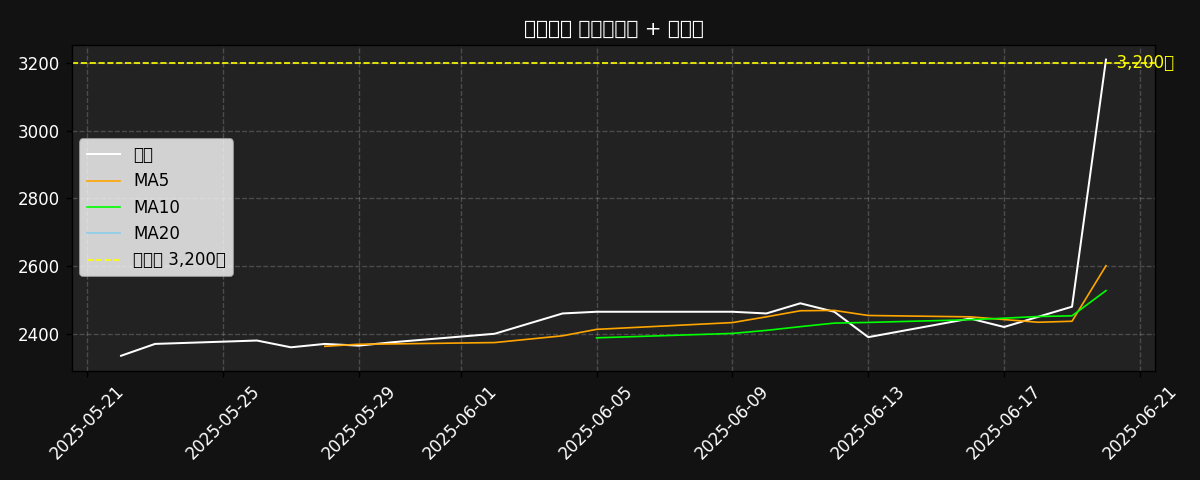
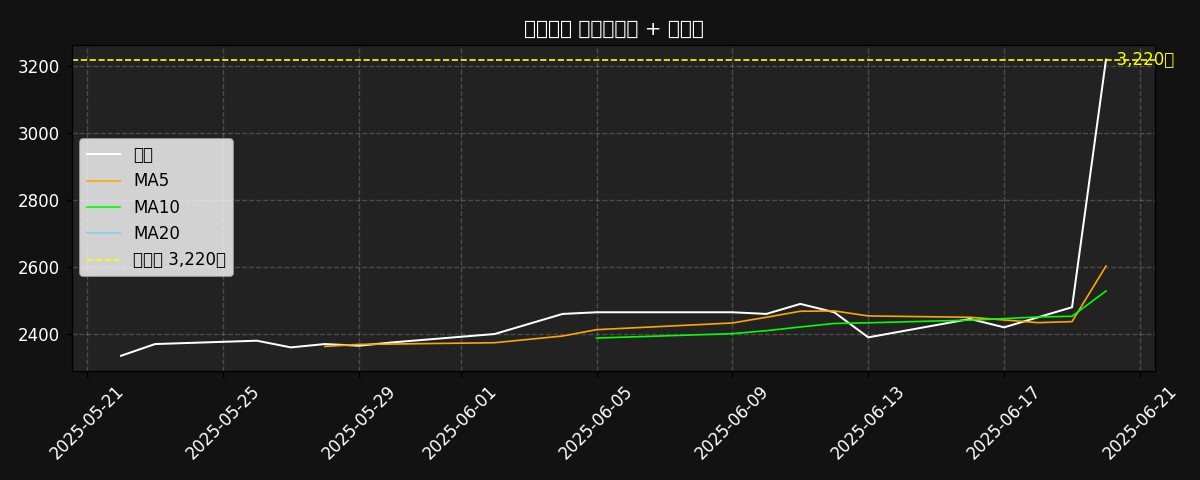
✅ 당일 정배열 포스팅 완료

diff --git a/_posts/2025-06-20-subfile.md b/_posts/2025-06-20-subfile.md
@@ -9,7 +9,7 @@ tags:
   - 정배열
   - Moving Average Alignment
   - 국내 종목 골든크로스
-last_modified_at: 2025-06-20T14:55:55+09:00
+last_modified_at: 2025-06-20T15:37:19+09:00
 ---
 
 안녕하세요. 국내 급등주 종목에 대한 정배열 종목 추출 리스트 입니다.
@@ -20,153 +20,163 @@ last_modified_at: 2025-06-20T14:55:55+09:00
 
 # 📈 급등 + 이동평균선 계단 상승 종목 카드
 <style>
-          body {
-            background-color: #121212;
-            color: #f0f0f0;
-            font-family: 'Segoe UI', sans-serif;
-            padding: 2em;
-          }
-          .card {
-            background: #2a2a2a;
-            border-radius: 12px;
-            box-shadow: 0 4px 12px rgba(0,0,0,0.4);
-            padding: 1.5em;
-            margin-bottom: 2em;
-            max-width: 700px;
-            color: #f0f0f0;
-          }
-          .card h2 {
-            margin-top: 0;
-            color: #ffb400;
-          }
-          .card ul {
-            list-style-type: none;
-            padding: 0;
-          }
-          .card li {
-            margin-bottom: 0.6em;
-            line-height: 1.6em;
-            color: #e2e2e2;
-          }
-          .card li strong {
-            color: #ffffff;
-          }
-          .card img {
-            max-width: 100%;
-            margin-top: 1em;
-            border-radius: 8px;
-            box-shadow: 0 0 10px rgba(0,0,0,0.5);
-          }
-        </style>
+      body {
+        background-color: #121212;
+        color: #f0f0f0;
+        font-family: 'Segoe UI', sans-serif;
+        padding: 2em;
+      }
+      .card {
+        background: #2a2a2a;
+        border-radius: 12px;
+        box-shadow: 0 4px 12px rgba(0,0,0,0.4);
+        padding: 1.5em;
+        margin-bottom: 2em;
+        max-width: 700px;
+        color: #f0f0f0;
+      }
+      .card h2 {
+        margin-top: 0;
+        color: #ffb400;
+      }
+      .card ul {
+        list-style-type: none;
+        padding: 0;
+      }
+      .card li {
+        margin-bottom: 0.6em;
+        line-height: 1.6em;
+        color: #e2e2e2;
+      }
+      .card li strong {
+        color: #ffffff;
+      }
+      .card img {
+        max-width: 100%;
+        margin-top: 1em;
+        border-radius: 8px;
+        box-shadow: 0 0 10px rgba(0,0,0,0.5);
+      }
+    </style>
 <div class='card'>
-  <h2>📌 미투온 (201490)</h2>
-  <ul>
-    <li><strong>종목 코드:</strong> 201490</li>
-    <li><strong>현재가:</strong> 6,630.0원</li>
-    <li><strong>전일 대비 상승률:</strong> +30.0%</li>
-    <li><strong>이동평균선 조건:</strong> MA5(4827.0) > MA10(3865.2) > MA20(2846.2)</li>
-    <li><strong>기업개요:</strong> 2010년 온라인ㆍ모바일 게임 개발 및 서비스를 주 사업목적으로 설립되어 2016년 코스닥 시장에 상장되었으며, 15개의 연결대상 종속회사를 보유하고 있음. 모바일게임, 웹툰/웹소설, 연예 매니지먼트, 글로벌 OTT 드라마, K-뷰티 제작으로 글로벌 컨텐츠 문화를 이끌어나가는 종합 엔터테인먼트 기업임. 아시아 중심의 소셜카지노 게임 업체로서 북미와 유럽으로 시장을 확대하며 글로벌 종합 엔터테인먼트 기업으로 영역을 확장하고 있음.</li>
-  </ul>
-  <img src='/assets/maimg/201490/201490_ma_chart_2025-06-20.png' alt='이동평균선 차트'>
+<h2>📌 미투온 (201490)</h2>
+<ul>
+<li><strong>종목 코드:</strong> 201490</li>
+<li><strong>현재가:</strong> 6,630.0원</li>
+<li><strong>전일 대비 상승률:</strong> +30.0%</li>
+<li><strong>이동평균선 조건:</strong> MA5(4827.0) > MA10(3865.2) > MA20(2846.2)</li>
+<li><strong>추천 점수:</strong> 55점 – ⚖ 중립적 – 기술적 약점 일부 존재, 뚜렷한 추세 아님</li>
+<li><strong>기업개요:</strong> 정보 없음</li>
+</ul>
+<img src='/assets/maimg/201490/201490_ma_chart_2025-06-20.png' alt='이동평균선 차트'>
 </div>
 <div class='card'>
-  <h2>📌 두산퓨얼셀2우B (33626L)</h2>
-  <ul>
-    <li><strong>종목 코드:</strong> 33626L</li>
-    <li><strong>현재가:</strong> 11,100.0원</li>
-    <li><strong>전일 대비 상승률:</strong> +29.98%</li>
-    <li><strong>이동평균선 조건:</strong> MA5(8996.0) > MA10(8771.0) > MA20(8406.5)</li>
-    <li><strong>기업개요:</strong> 동사는 2019년 두산 연료전지 사업부문 인적분할로 설립되었으며, 2024년 하이엑시움모터스 인수로 친환경 상용차 부문을 추가함. 발전용 연료전지 기자재 공급 및 발전소 장기유지보수서비스를 주요 사업으로 하며, 국내 시장 점유율 49%로 1위를 기록하고 있음. 수소경제 전환 가속화에 대응하여 SOFC 기술 개발 및 친환경 상용차 사업 등 신규 사업을 추진하며 수소 경제의 Technical Leader로 도약을 추진하고 있음.</li>
-  </ul>
-  <img src='/assets/maimg/33626L/33626L_ma_chart_2025-06-20.png' alt='이동평균선 차트'>
+<h2>📌 두산퓨얼셀2우B (33626L)</h2>
+<ul>
+<li><strong>종목 코드:</strong> 33626L</li>
+<li><strong>현재가:</strong> 11,100.0원</li>
+<li><strong>전일 대비 상승률:</strong> +29.98%</li>
+<li><strong>이동평균선 조건:</strong> MA5(8996.0) > MA10(8771.0) > MA20(8406.5)</li>
+<li><strong>추천 점수:</strong> 55점 – ⚖ 중립적 – 기술적 약점 일부 존재, 뚜렷한 추세 아님</li>
+<li><strong>기업개요:</strong> 정보 없음</li>
+</ul>
+<img src='/assets/maimg/33626L/33626L_ma_chart_2025-06-20.png' alt='이동평균선 차트'>
 </div>
 <div class='card'>
-  <h2>📌 씨케이솔루션 (480370)</h2>
-  <ul>
-    <li><strong>종목 코드:</strong> 480370</li>
-    <li><strong>현재가:</strong> 14,790.0원</li>
-    <li><strong>전일 대비 상승률:</strong> +29.96%</li>
-    <li><strong>이동평균선 조건:</strong> MA5(11868.0) > MA10(11493.0) > MA20(11175.5)</li>
-    <li><strong>기업개요:</strong> 동사는 2004년 기계설비공사 및 제조업을 목적으로 설립되어 2025년 3월 유가증권시장에 상장되었으며 2차전지 드라이룸 클린룸, 바이오 드라이룸 클린룸, FED 사업, 반도체/첨단 분야를 영위하고 있음. 특히 2차전지 공정의 드라이룸 시공에 강점을 보유하고 있으며, 전기차용 배터리 공정에 필수적인 드라이룸과 클린룸, 공조기계설비 등에 대한 매출이 주를 이룸.</li>
-  </ul>
-  <img src='/assets/maimg/480370/480370_ma_chart_2025-06-20.png' alt='이동평균선 차트'>
+<h2>📌 바른손이앤에이 (035620)</h2>
+<ul>
+<li><strong>종목 코드:</strong> 035620</li>
+<li><strong>현재가:</strong> 590.0원</li>
+<li><strong>전일 대비 상승률:</strong> +29.96%</li>
+<li><strong>이동평균선 조건:</strong> MA5(481.6) > MA10(464.3) > MA20(436.9)</li>
+<li><strong>추천 점수:</strong> 55점 – ⚖ 중립적 – 기술적 약점 일부 존재, 뚜렷한 추세 아님</li>
+<li><strong>기업개요:</strong> 정보 없음</li>
+</ul>
+<img src='/assets/maimg/035620/035620_ma_chart_2025-06-20.png' alt='이동평균선 차트'>
 </div>
 <div class='card'>
-  <h2>📌 바른손이앤에이 (035620)</h2>
-  <ul>
-    <li><strong>종목 코드:</strong> 035620</li>
-    <li><strong>현재가:</strong> 590.0원</li>
-    <li><strong>전일 대비 상승률:</strong> +29.96%</li>
-    <li><strong>이동평균선 조건:</strong> MA5(481.6) > MA10(464.3) > MA20(436.9)</li>
-    <li><strong>기업개요:</strong> 동사는 1996년 설립된 영화, 드라마, 영상콘텐츠를 기획·제작하는 글로벌 종합 콘텐츠 기업임. 투자배급업, 콘텐츠 제작 및 판권 사업, 부동산 임대업을 영위하며, 탑급 작가·감독과의 작품 기획과 신진 창작자들의 스토리 발굴로 프리미엄 콘텐츠를 제작하고 있음. 글로벌 시장 타겟의 작품별 투자·배급 전략으로 극장, 방송, OTT 등 다양한 플랫폼 활용과 2차 저작물 관리를 통한 수익 극대화를 추진하고 있음.</li>
-  </ul>
-  <img src='/assets/maimg/035620/035620_ma_chart_2025-06-20.png' alt='이동평균선 차트'>
+<h2>📌 한국화장품 (123690)</h2>
+<ul>
+<li><strong>종목 코드:</strong> 123690</li>
+<li><strong>현재가:</strong> 9,460.0원</li>
+<li><strong>전일 대비 상승률:</strong> +29.95%</li>
+<li><strong>이동평균선 조건:</strong> MA5(7660.0) > MA10(7486.0) > MA20(7189.5)</li>
+<li><strong>추천 점수:</strong> 55점 – ⚖ 중립적 – 기술적 약점 일부 존재, 뚜렷한 추세 아님</li>
+<li><strong>기업개요:</strong> 정보 없음</li>
+</ul>
+<img src='/assets/maimg/123690/123690_ma_chart_2025-06-20.png' alt='이동평균선 차트'>
 </div>
 <div class='card'>
-  <h2>📌 한국화장품 (123690)</h2>
-  <ul>
-    <li><strong>종목 코드:</strong> 123690</li>
-    <li><strong>현재가:</strong> 9,460.0원</li>
-    <li><strong>전일 대비 상승률:</strong> +29.95%</li>
-    <li><strong>이동평균선 조건:</strong> MA5(7660.0) > MA10(7486.0) > MA20(7189.5)</li>
-    <li><strong>기업개요:</strong> 동사는 2010년 5월 (주)한국화장품제조에서 화장품판매 및 부동산임대사업부문이 인적분할되어 설립된 기업임. 기초화장품과 색조화장품을 비롯 700여 종류의 화장품판매를 영위하는 종합화장품회사로서, 시판사업부와 H&B사업부 등 다양한 유통경로를 보유하고 있음. Brand Manager체제를 통한 브랜드 파워 강화와 차별화된 신제품 개발 육성을 통한 리딩품목 육성에 주력하고 있음.</li>
-  </ul>
-  <img src='/assets/maimg/123690/123690_ma_chart_2025-06-20.png' alt='이동평균선 차트'>
+<h2>📌 바른손 (018700)</h2>
+<ul>
+<li><strong>종목 코드:</strong> 018700</li>
+<li><strong>현재가:</strong> 1,410.0원</li>
+<li><strong>전일 대비 상승률:</strong> +29.95%</li>
+<li><strong>이동평균선 조건:</strong> MA5(1136.8) > MA10(1097.9) > MA20(996.3)</li>
+<li><strong>추천 점수:</strong> 55점 – ⚖ 중립적 – 기술적 약점 일부 존재, 뚜렷한 추세 아님</li>
+<li><strong>기업개요:</strong> 정보 없음</li>
+</ul>
+<img src='/assets/maimg/018700/018700_ma_chart_2025-06-20.png' alt='이동평균선 차트'>
 </div>
 <div class='card'>
-  <h2>📌 바른손 (018700)</h2>
-  <ul>
-    <li><strong>종목 코드:</strong> 018700</li>
-    <li><strong>현재가:</strong> 1,410.0원</li>
-    <li><strong>전일 대비 상승률:</strong> +29.95%</li>
-    <li><strong>이동평균선 조건:</strong> MA5(1136.8) > MA10(1097.9) > MA20(996.3)</li>
-    <li><strong>기업개요:</strong> 동사는 1985년 바른손팬시로 설립되어 1994년 바른손카드와 합병 후 현재 사명으로 변경되었으며 코스닥 시장에 상장됨. 뷰티, 영화, VFX, 외식사업을 영위하며, 온라인 쇼핑몰 졸스를 통해 250여개 K-뷰티 브랜드의 3만여개 제품을 180여개 국가에 판매하고 있음. 자체 R&D 기반 검색엔진 최적화, 효율적 배송시스템, 빅데이터 마케팅으로 글로벌 뷰티 플랫폼 경쟁력을 강화하고 있음.</li>
-  </ul>
-  <img src='/assets/maimg/018700/018700_ma_chart_2025-06-20.png' alt='이동평균선 차트'>
+<h2>📌 카카오페이 (377300)</h2>
+<ul>
+<li><strong>종목 코드:</strong> 377300</li>
+<li><strong>현재가:</strong> 79,600.0원</li>
+<li><strong>전일 대비 상승률:</strong> +29.85%</li>
+<li><strong>이동평균선 조건:</strong> MA5(64200.0) > MA10(60410.0) > MA20(48132.5)</li>
+<li><strong>추천 점수:</strong> 55점 – ⚖ 중립적 – 기술적 약점 일부 존재, 뚜렷한 추세 아님</li>
+<li><strong>기업개요:</strong> 정보 없음</li>
+</ul>
+<img src='/assets/maimg/377300/377300_ma_chart_2025-06-20.png' alt='이동평균선 차트'>
 </div>
 <div class='card'>
-  <h2>📌 코리아나 (027050)</h2>
-  <ul>
-    <li><strong>종목 코드:</strong> 027050</li>
-    <li><strong>현재가:</strong> 3,200.0원</li>
-    <li><strong>전일 대비 상승률:</strong> +29.03%</li>
-    <li><strong>이동평균선 조건:</strong> MA5(2599.0) > MA10(2526.5) > MA20(2457.25)</li>
-    <li><strong>기업개요:</strong> 동사는 1988년 화장품 제조 및 판매업으로 설립되어 1999년 코스닥 시장에 상장됨. 송파기술연구소의 개발 성과로 라비다, 자인, 녹두, 세니떼, 비취가인, 앰플엔, 프리엔제, 엔시아, 텐세컨즈 브랜드를 보유하고 있으며, 2016년 중국 천진시 신공장으로 현지 생산시설을 확보함. 4대 영업전략을 바탕으로 직판과 시판 유통을 이원화하고 온라인, 해외시장, 세니떼뷰티샵으로 매출경로를 다각화하고 있음.</li>
-  </ul>
-  <img src='/assets/maimg/027050/027050_ma_chart_2025-06-20.png' alt='이동평균선 차트'>
+<h2>📌 코리아나 (027050)</h2>
+<ul>
+<li><strong>종목 코드:</strong> 027050</li>
+<li><strong>현재가:</strong> 3,220.0원</li>
+<li><strong>전일 대비 상승률:</strong> +29.84%</li>
+<li><strong>이동평균선 조건:</strong> MA5(2603.0) > MA10(2528.5) > MA20(2458.25)</li>
+<li><strong>추천 점수:</strong> 55점 – ⚖ 중립적 – 기술적 약점 일부 존재, 뚜렷한 추세 아님</li>
+<li><strong>기업개요:</strong> 정보 없음</li>
+</ul>
+<img src='/assets/maimg/027050/027050_ma_chart_2025-06-20.png' alt='이동평균선 차트'>
 </div>
 <div class='card'>
-  <h2>📌 브릿지바이오테라퓨틱스 (288330)</h2>
-  <ul>
-    <li><strong>종목 코드:</strong> 288330</li>
-    <li><strong>현재가:</strong> 982.0원</li>
-    <li><strong>전일 대비 상승률:</strong> +25.58%</li>
-    <li><strong>이동평균선 조건:</strong> MA5(802.4) > MA10(766.1) > MA20(749.45)</li>
-    <li><strong>기업개요:</strong> 동사는 2015년 기초 의약물질 제조와 의학 및 약학 연구개발을 주요 사업으로 설립되어 2019년 코스닥 기술성장기업으로 상장함. 미충족 의료수요가 높은 질환 치료를 위한 혁신 신약을 연구 개발하며, 특발성 폐섬유증 및 암 질환을 집중 질환으로 설정해 혁신 신약 후보를 개발하고 있음. 중단기적으로는 임상 개발 단계에서 기술이전으로 매출을 창출하고, 장기적으로는 신약 직접 판매로 제약바이오 기업으로 성장을 추진하고 있음.</li>
-  </ul>
-  <img src='/assets/maimg/288330/288330_ma_chart_2025-06-20.png' alt='이동평균선 차트'>
+<h2>📌 두산퓨얼셀 (336260)</h2>
+<ul>
+<li><strong>종목 코드:</strong> 336260</li>
+<li><strong>현재가:</strong> 23,450.0원</li>
+<li><strong>전일 대비 상승률:</strong> +20.88%</li>
+<li><strong>이동평균선 조건:</strong> MA5(19936.0) > MA10(19397.0) > MA20(18220.0)</li>
+<li><strong>추천 점수:</strong> 55점 – ⚖ 중립적 – 기술적 약점 일부 존재, 뚜렷한 추세 아님</li>
+<li><strong>기업개요:</strong> 정보 없음</li>
+</ul>
+<img src='/assets/maimg/336260/336260_ma_chart_2025-06-20.png' alt='이동평균선 차트'>
 </div>
 <div class='card'>
-  <h2>📌 두산퓨얼셀1우 (33626K)</h2>
-  <ul>
-    <li><strong>종목 코드:</strong> 33626K</li>
-    <li><strong>현재가:</strong> 6,495.0원</li>
-    <li><strong>전일 대비 상승률:</strong> +22.09%</li>
-    <li><strong>이동평균선 조건:</strong> MA5(5491.0) > MA10(5396.5) > MA20(5095.0)</li>
-    <li><strong>기업개요:</strong> 동사는 2019년 두산 연료전지 사업부문 인적분할로 설립되었으며, 2024년 하이엑시움모터스 인수로 친환경 상용차 부문을 추가함. 발전용 연료전지 기자재 공급 및 발전소 장기유지보수서비스를 주요 사업으로 하며, 국내 시장 점유율 49%로 1위를 기록하고 있음. 수소경제 전환 가속화에 대응하여 SOFC 기술 개발 및 친환경 상용차 사업 등 신규 사업을 추진하며 수소 경제의 Technical Leader로 도약을 추진하고 있음.</li>
-  </ul>
-  <img src='/assets/maimg/33626K/33626K_ma_chart_2025-06-20.png' alt='이동평균선 차트'>
+<h2>📌 브릿지바이오테라퓨틱스 (288330)</h2>
+<ul>
+<li><strong>종목 코드:</strong> 288330</li>
+<li><strong>현재가:</strong> 943.0원</li>
+<li><strong>전일 대비 상승률:</strong> +20.59%</li>
+<li><strong>이동평균선 조건:</strong> MA5(794.6) > MA10(762.2) > MA20(747.5)</li>
+<li><strong>추천 점수:</strong> 55점 – ⚖ 중립적 – 기술적 약점 일부 존재, 뚜렷한 추세 아님</li>
+<li><strong>기업개요:</strong> 정보 없음</li>
+</ul>
+<img src='/assets/maimg/288330/288330_ma_chart_2025-06-20.png' alt='이동평균선 차트'>
 </div>
 <div class='card'>
-  <h2>📌 데이타솔루션 (263800)</h2>
-  <ul>
-    <li><strong>종목 코드:</strong> 263800</li>
-    <li><strong>현재가:</strong> 6,270.0원</li>
-    <li><strong>전일 대비 상승률:</strong> +21.75%</li>
-    <li><strong>이동평균선 조건:</strong> MA5(5258.0) > MA10(5065.0) > MA20(4845.5)</li>
-    <li><strong>기업개요:</strong> 동사는 2010년 오픈베이스로부터 물적분할을 통해 시스템통합사업을 위해 설립되었으며, 2016년 데이타솔루션 합병으로 데이터 전문기업으로 성장함. Data & AI, 엔터프라이즈/인프라, AX/DX, 서비스사업을 주요 사업으로 영위하며, 빅데이터, ICT, IoT, 클라우드 분야에서 컨설팅, 분석, 시스템 구축 및 운영 서비스를 제공함. 빅데이터 러닝센터를 운영하며 데이터 분석 인재 양성에 힘쓰고 있음.</li>
-  </ul>
-  <img src='/assets/maimg/263800/263800_ma_chart_2025-06-20.png' alt='이동평균선 차트'>
+<h2>📌 코츠테크놀로지 (448710)</h2>
+<ul>
+<li><strong>종목 코드:</strong> 448710</li>
+<li><strong>현재가:</strong> 25,850.0원</li>
+<li><strong>전일 대비 상승률:</strong> +20.23%</li>
+<li><strong>이동평균선 조건:</strong> MA5(22420.0) > MA10(21099.0) > MA20(20079.0)</li>
+<li><strong>추천 점수:</strong> 55점 – ⚖ 중립적 – 기술적 약점 일부 존재, 뚜렷한 추세 아님</li>
+<li><strong>기업개요:</strong> 정보 없음</li>
+</ul>
+<img src='/assets/maimg/448710/448710_ma_chart_2025-06-20.png' alt='이동평균선 차트'>
 </div>
 
 ---
